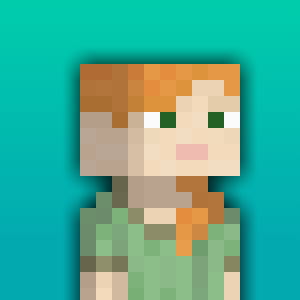
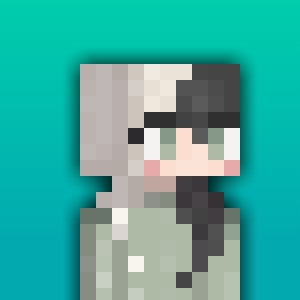
added graphics

diff --git a/src/views/Home.vue b/src/views/Home.vue
@@ -6,10 +6,11 @@
 <template>
   <div class="container">
     <div class ="welcome">
-      <h1 v-if="isUserLoggedIn" class="title m-4">Welcome, 
+      <h1 v-if="isUserLoggedIn" class="title m-4 greeting">Welcome, 
         <span class="has-text-success">{{ user?.username }}</span> !
       </h1>
-      <h1 v-else class="title m-4">Welcome, user! Please register/login to get started!</h1>
+      <h1 v-else class="title m-4 greeting">Welcome, user! Please register/login to get started!</h1>
+      <img class="image is-48x48 m-2 greeting" src="/graphics/compass.gif" alt="compass gif">
     </div>
 
     <hr/>
@@ -31,22 +32,22 @@
     <div class="m-4">
       <h3 class="title">Meet the Development Team:</h3>
       <div class="cards p-4 has-text-centered">
-        <img class="is-rounded" src="/graphics/user.png" alt="profile image">
+        <img class="round" src="/profile/mcpfp - Joseph.png" alt="profile image">
         <h1 class="title">Joseph Ertman</h1>
         <h1 class="subtitle">Product Owner</h1>
       </div>
       <div class="cards p-4 has-text-centered">
-        <img src="/graphics/user.png" alt="profile image">
+        <img class="round" src="/profile/mcpfp - Fiona.png" alt="profile image">
         <h1 class="title">Fiona Kennedy</h1>
         <h1 class="subtitle">Scrum Master</h1>
       </div>
       <div class="cards p-4 has-text-centered">
-        <img src="/graphics/user.png" alt="profile image">
+        <img class="round" src="/profile/mcpfp - Michelle.png" alt="profile image">
         <h1 class="title">Michelle Zhunio</h1>
         <h1 class="subtitle">Developer</h1>
       </div>
       <div class="cards p-4 has-text-centered">
-        <img src="/graphics/user.png" alt="profile image">
+        <img class="round" src="/profile/mcpfp - Gisela.png" alt="profile image">
         <h1 class="title">Gisela Fugon</h1>
         <h1 class="subtitle">Developer</h1>
       </div>
@@ -56,14 +57,14 @@
 
     <div class="m-4"> 
       <h3 class="title">How to get started:</h3>
-      <p>
-        1. Register for an account on our website by clicking the register
-        button at the top right of the page.<br />
-        2. Once you are logged in, you can visit your Profile Page where you can
-        edit your account information, post trade listings and view all of your active listings.<br />
-        3. Visit the Marketplace page to view/inquire about all users' active listings. You can find listings for your
-        desired Minecraft Server by typing the IP Address in the Search Bar at the top of the page.
-      </p>
+      <ol class="m-4">
+        <li>Register for an account on our website by clicking the register
+        button at the top right of the page.</li><br />
+        <li>Once you are logged in, you can visit your Profile Page where you can
+        edit your account information, post trade listings and view all of your active listings.</li><br />
+        <li>Visit the Marketplace page to view/inquire about all users' active listings. You can find listings for your
+        desired Minecraft Server by typing the IP Address in the Search Bar at the top of the page.</li>
+      </ol>
     </div>
 
   </div>
@@ -80,6 +81,13 @@
   border-radius: 5px;
   margin-left: 20px;
   margin-right: 20px;
+}
+.greeting {
+  display: inline-block;
+  vertical-align: middle;
+}
+.round {
+  border-radius: 50%;
 }
 
 hr {

diff --git a/src/views/Marketplace.vue b/src/views/Marketplace.vue
@@ -20,8 +20,20 @@ async function onCloseTradeClicked(tradeId: number) {
 </script>
 
 <template>
-  <div class="header">
-      <h1 class="title m-4">Welcome to the Marketplace, <span class="has-text-success">{{ user?.username }}</span> !</h1>
+  <div class="header has-text-centered">
+      <img class="image is-64x64 m-2 content" src="/graphics/parrot.gif" alt="parrot gif">
+      <h1 class="title m-4 content">Welcome to the Marketplace, <span class="has-text-success">{{ user?.username }}</span> !</h1>
+      <img class="image is-64x64 mx-2 content" src="/graphics/bee.gif" alt="bee gif">
+  </div>
+  <div class="has-text-centered ">
+    <RouterLink class="is-active" v-slot="{ navigate }" to="/profile/createPost">
+        <button
+          @click="navigate"
+          role="link"
+          class="button is-size-4 has-text-link create">
+          Create Listing
+      </button>
+    </RouterLink>
   </div>
   <div class="columns mt-5">
     <div class="column" v-for="trade in trades">
@@ -74,7 +86,6 @@ async function onCloseTradeClicked(tradeId: number) {
               Send Message
             </button>
           </router-link>
-          <!--<a href="#" class="card-footer-item">Send Message</a>-->
           <br />
         </footer>
       </div>
@@ -83,13 +94,21 @@ async function onCloseTradeClicked(tradeId: number) {
 </template>
 
 <style scoped>
-.button {
+button {
   font-family: "Minecraft";
+}
+.create {
+  border-radius: 5px;
+  background-color: aliceblue;
 }
 .card {
   background-color: aliceblue;
 }
 .card-content {
   padding-bottom: 5px;
+}
+.content {
+  display: inline-block;
+  vertical-align: middle;
 }
 </style>

diff --git a/src/views/Profile.vue b/src/views/Profile.vue
@@ -11,7 +11,7 @@ const trades = [
 
 <template>
   <div class="container mt-5">
-    <div class="card has-background-primary-light">
+    <div class="card">
       <div class="card-content">
         <div class="media">
           <div class="media-left">
@@ -35,10 +35,10 @@ const trades = [
         <div class="tabs is-left">
           <ul>
             <RouterLink class="is-active" to="/profile/createPost"
-              >Create Trade</RouterLink
+              >Create Listing</RouterLink
             >
             <RouterLink class="is-active" to="/profile/userList"
-              >List of Trades</RouterLink
+              >My Listings</RouterLink
             >
 
             <RouterLink class="is-active" to="/profile/settings">
@@ -55,5 +55,8 @@ const trades = [
 <style scoped>
 .card-content {
   padding-bottom: 5px;
+}
+.card {
+  background-color: aliceblue;
 }
 </style>

diff --git a/src/components/CreatePost.vue b/src/components/CreatePost.vue
@@ -4,12 +4,12 @@
 
 <template>
     <div class="container is-max-desktop mt-5">
-        <h1 class="title">Trade Items in Minecraft Market Place</h1>
+        <h1 class="title">Trade Items in Minecraft Marketplace</h1>
 
         <div class="container" mt-5>
             <router-link to = "/ItemCategories">
             <img src="https://assets.nintendo.com/image/upload/ar_16:9,c_lpad,w_1065/b_white/f_auto/q_auto/ncom/software/switch/70010000000964/811461b8d1cacf1f2da791b478dccfe2a55457780364c3d5a95fbfcdd4c3086f">
-            <button class="button is-primary is-light">Trade Now</button>
+            <button class="button is-primary is-light has-text-link">Create Listing</button>
             </router-link>
         </div>
         
@@ -17,6 +17,9 @@
 </template>
 
 <style scoped>
+button {
+  font-family: "Minecraft";
+}
 .container {
     position:relative;
     width: 100%;

diff --git a/src/views/UserTradeList.vue b/src/views/UserTradeList.vue
@@ -25,7 +25,7 @@ async function onCloseTradeClicked(tradeId: number) {
   <div class="columns mt-5">
     <h1 class="title ml-5 has-text-danger" v-if="!!isUserTradeExits">No Trade Listings in Minecraft Marketplace Active</h1>
     <div class="column" v-for="trade in trades">
-      <div class="card has-background-primary-light">
+      <div class="card">
         <div class="card-content">
           <div class="media">
             <div class="media-left">
@@ -64,4 +64,8 @@ async function onCloseTradeClicked(tradeId: number) {
   </div>
 </template>
 
-<style scoped></style>
+<style scoped>
+.card {
+  background-color: aliceblue;
+}
+</style>
